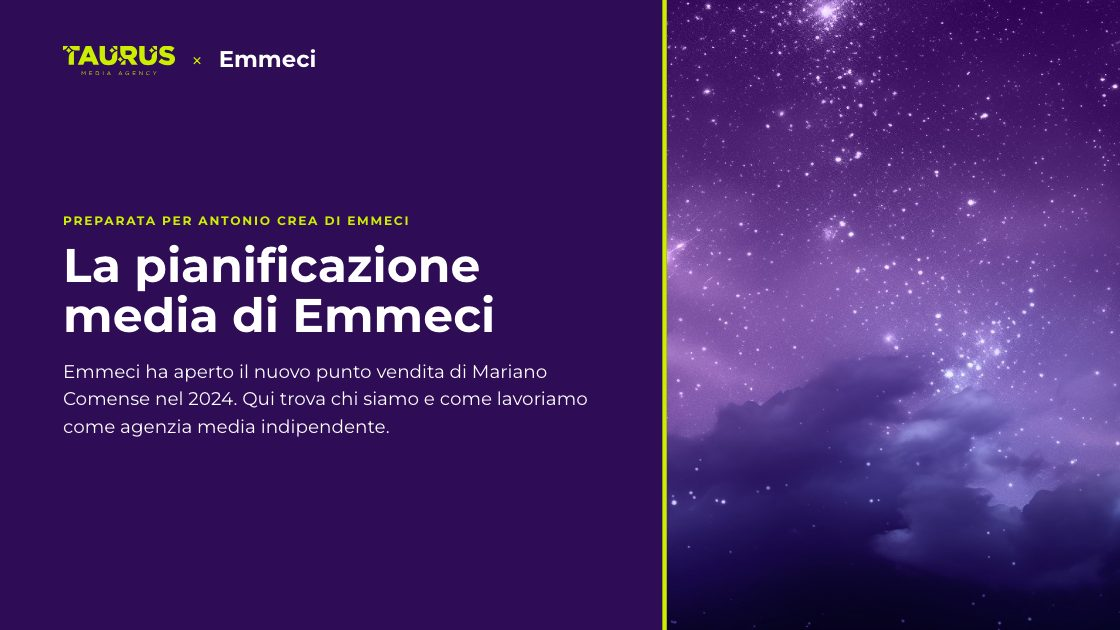
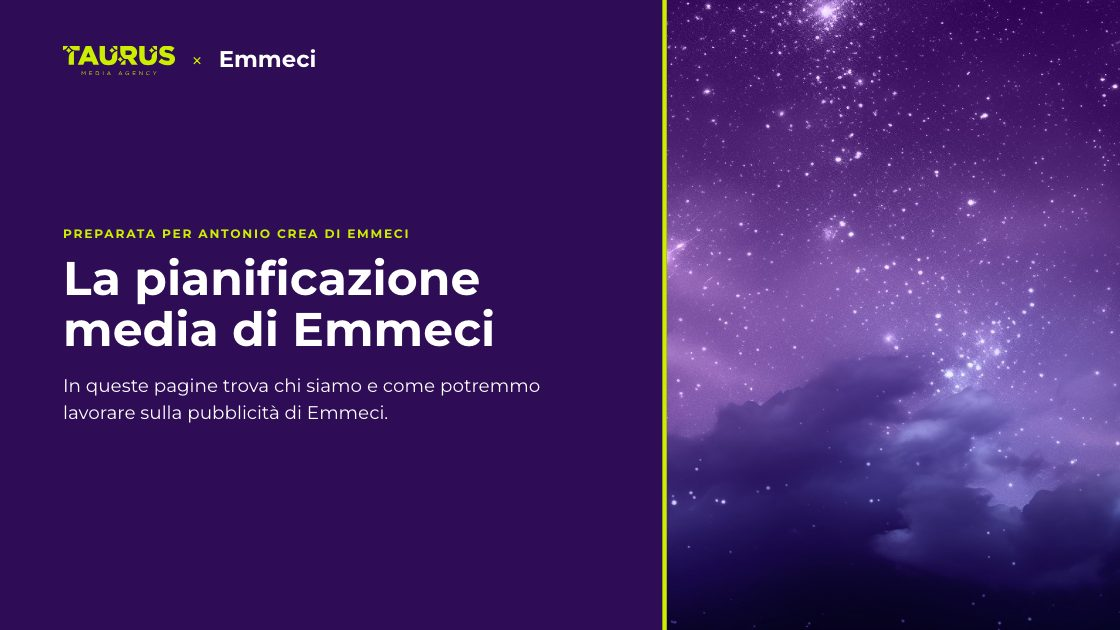
Taurus: campione emmeci generico (fatto del 2024)

Changed region(s): [[0.0312, 0.3317, 0.5, 0.6937]]

diff --git a/taurus/emmeci/index.html b/taurus/emmeci/index.html
@@ -128,7 +128,7 @@ html:not(.phone) .lg.pf b{font-size:42px;white-space:nowrap}html:not(.phone) .lg
     <div class="m">
       <div class="eyebrow">Preparata per Antonio Crea di Emmeci</div>
       <h1>La pianificazione media di Emmeci</h1>
-      <p class="sub">Emmeci ha aperto il nuovo punto vendita di Mariano Comense nel 2024. Qui trova chi siamo e come lavoriamo come agenzia media indipendente.</p>
+      <p class="sub">In queste pagine trova chi siamo e come potremmo lavorare sulla pubblicità di Emmeci.</p>
     </div>
   </div>
   <div class="r" role="img" aria-label="Cielo stellato, immagine di Taurus Media"></div>
@@ -145,7 +145,7 @@ html:not(.phone) .lg.pf b{font-size:42px;white-space:nowrap}html:not(.phone) .lg
     <div><b>Geolocalizzate</b><span>Campagne on e offline sul territorio che vi interessa</span></div>
     <div><b>Tutti i media</b><span>TV, radio, out of home, stampa, eventi e influencer marketing</span></div>
   </div>
-  <p class="idea">Pianifichiamo la comunicazione locale attorno al nuovo punto vendita, scegliendo i canali più efficaci per farlo conoscere alle famiglie della zona.</p>
+  <p class="idea">Partiamo da una prima analisi del vostro mercato media e vediamo insieme dove ci sono opportunità.</p>
 </div></section>
 
 <section data-i="3" aria-label="Come lavoriamo"><div class="s">
